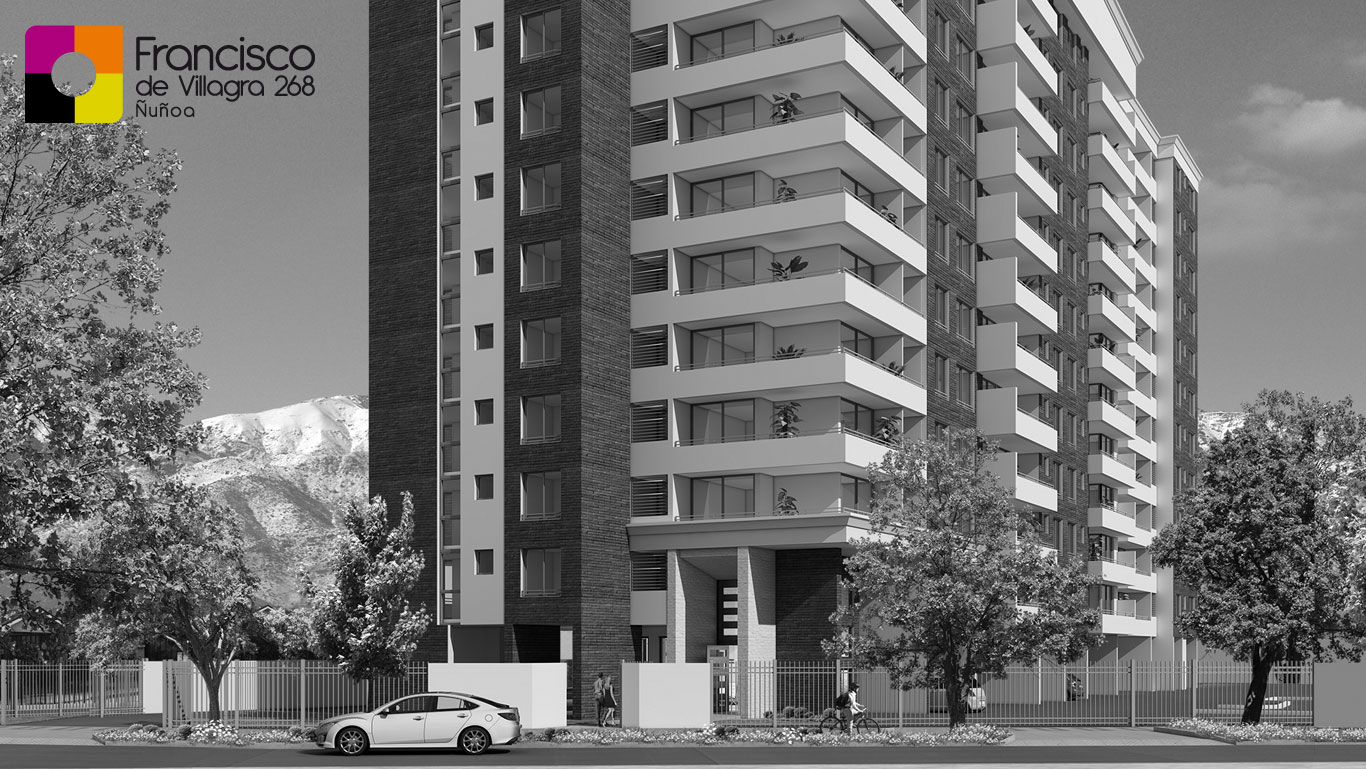
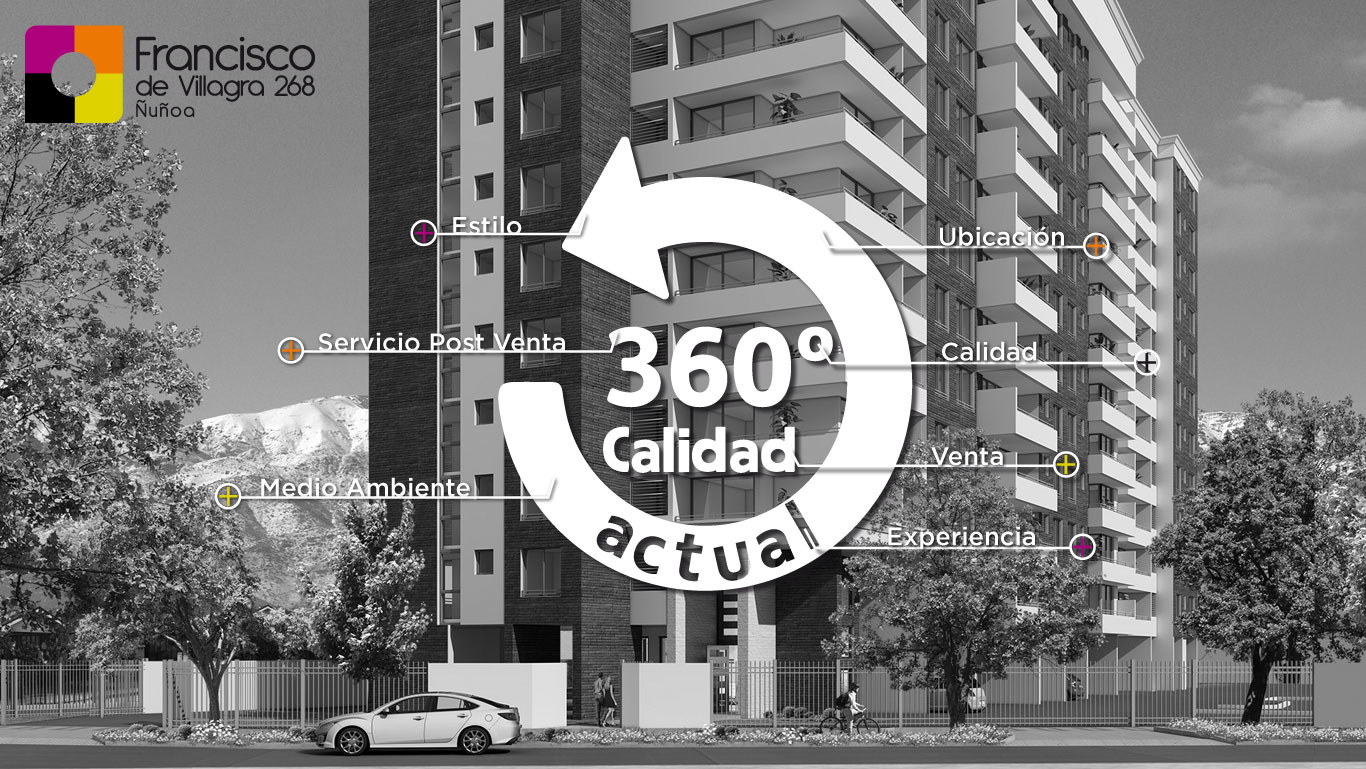
Calidad 360 Links
Inicando proceso de links y fancybox

Changed region(s): [[0.1537, 0.1873, 0.8609, 0.7802]]

diff --git a/Villagra/calidad360.html b/Villagra/calidad360.html
@@ -19,7 +19,7 @@
             maxHeight   : 600,
             fitToView   : false,
             width       : '70%',
-            height      : '70%',
+            height      : '50%',
             autoSize    : false,
             closeClick  : false,
             openEffect  : 'elastic',
@@ -30,8 +30,8 @@
             maxWidth    : 800,
             maxHeight   : 600,
             fitToView   : false,
-            width       : '40%',
-            height      : '40%',
+            width       : '70%',
+            height      : '50%',
             autoSize    : false,
             closeClick  : false,
             openEffect  : 'elastic',
@@ -42,11 +42,10 @@
 </script><!-- /fancybox -->
 
     <div class="contenedor-principal calidad360">
-    
         <div class="contenido">
-        <a class="modal-estilo fancybox.iframe" href="iframes/iframe.html" data-ajax="false">Iframe</a>  
-        <a class="modal-servicio fancybox.iframe" href="iframes/iframe.html" data-ajax="false">Iframe</a>
-
+        <a class="link-estilo modal-estilo fancybox.iframe" href="iframes/iframe.html" data-ajax="false"></a>  
+        <a class="link-servicio modal-servicio fancybox.iframe" href="iframes/iframe.html" data-ajax="false"></a>
+        <a class="link-ambiente modal-servicio fancybox.iframe" href="iframes/iframe.html" data-ajax="false"></a>        
         </div>
 
         <div class="botonera">

diff --git a/Villagra/css/base/base.css b/Villagra/css/base/base.css
@@ -41,4 +41,7 @@ nav.bottom:first-child, nav.top:first-child {padding-left:20px;}
 nav.top a.current, nav.bottom a.current {color:#FF3}
 nav.inicio a.current {color: #af007c}
 
-/*--------------------------------------- Otro -------- */
+/*--------------------------------------- Calidad 360 -------- */
+a.link-estilo {position: absolute; width: 250px; height: 60px; top: 200px; left: 370px; text-decoration: none; display: block;}
+a.link-servicio {position: absolute; width: 320px; height: 60px; top: 310px; left: 260px; text-decoration: none; display: block;}
+a.link-ambiente {position: absolute; width: 320px; height: 60px; top: 460px; left: 190px; text-decoration: none; display: block;}
